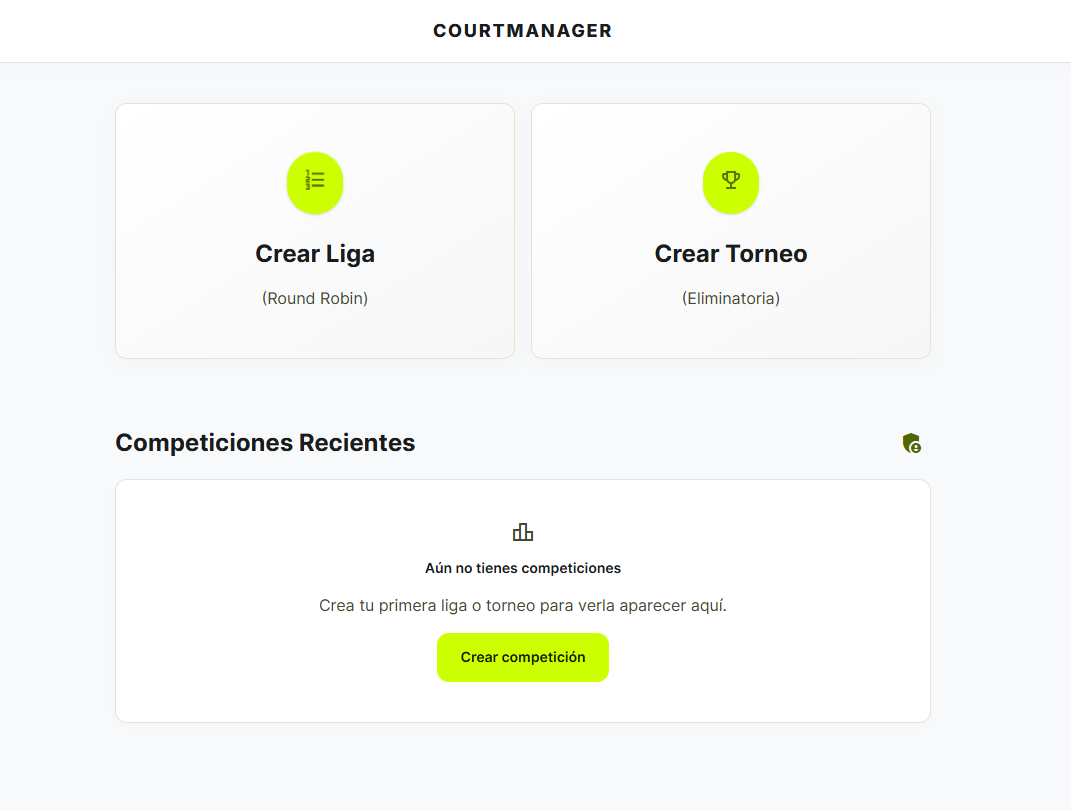
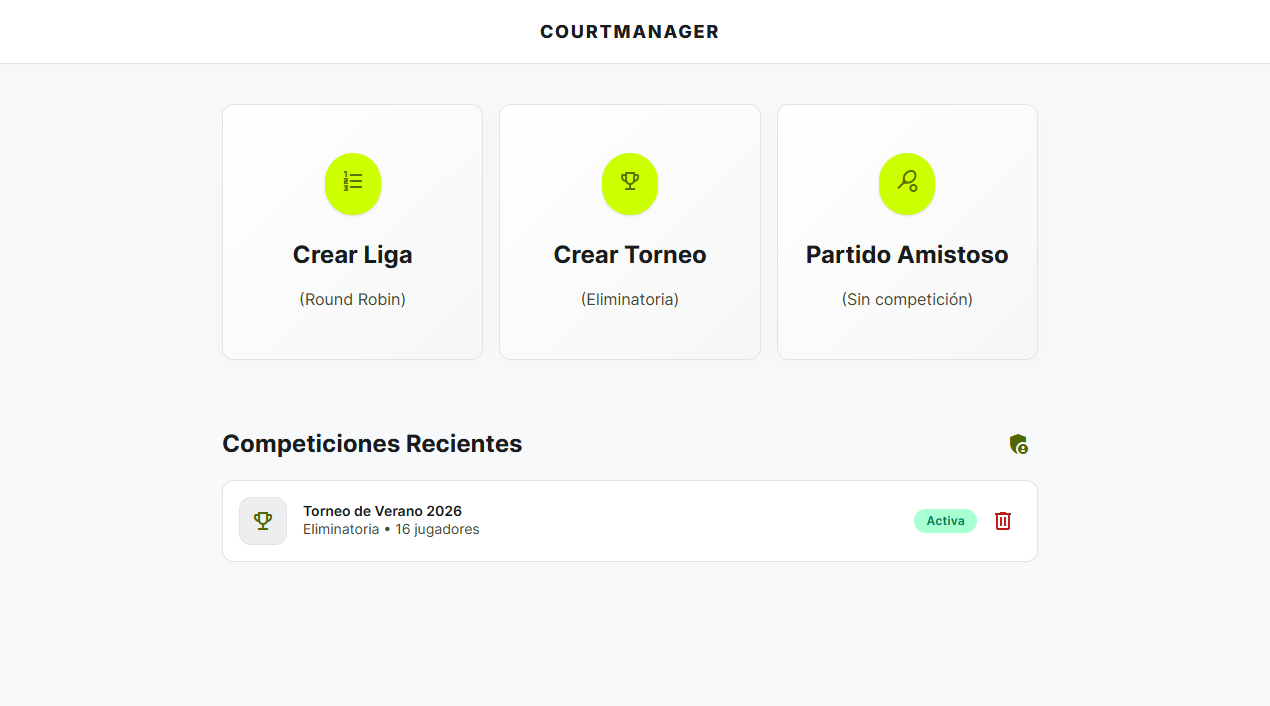
Refactor code structure for improved readability and maintainability

diff --git a/README.md b/README.md
@@ -3,7 +3,8 @@
 > Gestor profesional de torneos y ligas de tenis — del sorteo al saque final.
 
 [![CI](https://github.com/davidsored/TennisTournament/actions/workflows/ci.yml/badge.svg)](https://github.com/davidsored/TennisTournament/actions/workflows/ci.yml)
-[![Tests](https://img.shields.io/badge/tests-138%20passing-brightgreen)](./tests)
+[![E2E](https://github.com/davidsored/TennisTournament/actions/workflows/e2e.yml/badge.svg)](https://github.com/davidsored/TennisTournament/actions/workflows/e2e.yml)
+[![Tests](https://img.shields.io/badge/tests-165%20passing-brightgreen)](./tests)
 [![Python](https://img.shields.io/badge/python-3.12.3-blue)](https://www.python.org/)
 [![Reflex](https://img.shields.io/badge/reflex-0.9.0-6E56CF)](https://reflex.dev/)
 [![Docker](https://img.shields.io/badge/docker-ready-2496ED?logo=docker&logoColor=white)](./Dockerfile)
@@ -14,6 +15,16 @@
 <p align="center">
   <img src="assets/screenshots/home.png" alt="Dashboard de CourtManager" width="800">
 </p>
+
+---
+
+## 🆕 Novedades
+
+> Cambios recientes — detalle completo en [CHANGELOG.md](./CHANGELOG.md).
+
+- 🎾 **Partido Amistoso**: marcador rápido sin liga ni torneo, accesible desde el Home. La configuración viaja en la URL para sobrevivir refrescos.
+- 🐳 **Docker listo para usar**: `Dockerfile` + `docker-compose.yml` con hot-reload para arrancar el stack en un comando.
+- ⚙ **CI en GitHub Actions**: unit + integration en cada push/PR y un workflow E2E nightly con Playwright.
 
 ---
 
@@ -29,6 +40,7 @@ Pensada para clubs, organizadores aficionados y profesores que necesitan una her
 | --- | --- |
 | 🏆 **Ligas (Round Robin)** | Genera el calendario completo ida y vuelta con el algoritmo del círculo. Tabla de clasificación con desempates por sets y orden alfabético. |
 | 🎯 **Torneos eliminatorios** | Cuadros con sembrado aleatorio, distribución de BYEs (nunca se enfrentan entre sí), propagación automática del ganador a la siguiente ronda. |
+| 🎾 **Partido Amistoso** | Marcador rápido sin crear competición: dos nombres, formato (sets / juegos) y a jugar. La configuración viaja en la URL para sobrevivir refrescos. |
 | ⏱ **Marcador en vivo** | Máquina de estados completa: 0 → 15 → 30 → 40, deuce, ventaja, tie-break (configurable), partidos al mejor de N sets / M juegos. |
 | 💾 **Persistencia robusta** | Postgres (Supabase) en producción, SQLite en local. Migraciones gestionadas con Alembic. |
 | 🌗 **Modo administrador** | Acciones destructivas (borrado de competiciones) protegidas por clave; sesión persistida vía `LocalStorage`. |
@@ -39,6 +51,17 @@ Pensada para clubs, organizadores aficionados y profesores que necesitan una her
   <img src="assets/screenshots/torneo.png" alt="Bracket eliminatorio con conectores y propagación de ganadores" width="48%">
 </p>
 <p align="center"><em>Dashboard de liga (Round Robin) y cuadro eliminatorio en acción.</em></p>
+
+<!-- TODO capturas v0.2.0: generar y commitear los archivos siguientes -->
+<!-- - assets/screenshots/casual_form.png        → formulario /casual-match rellenado -->
+<!-- - assets/screenshots/casual_scoreboard.png  → marcador "Partido Amistoso" con dos nombres -->
+<!-- - assets/screenshots/home.png               → re-capturar con el bento de 3 columnas -->
+<p align="center">
+  <img src="assets/screenshots/casual_form.png" alt="Formulario de Partido Amistoso" width="48%">
+  &nbsp;
+  <img src="assets/screenshots/casual_scoreboard.png" alt="Marcador en vivo de un partido amistoso" width="48%">
+</p>
+<p align="center"><em>Partido Amistoso: del formulario al marcador en dos clics.</em></p>
 
 ---
 
@@ -54,17 +77,17 @@ Pensada para clubs, organizadores aficionados y profesores que necesitan una her
 
 ---
 
-## 🧪 Pirámide de Testing — 138 tests automatizados
+## 🧪 Pirámide de Testing — 165 tests automatizados
 
 CourtManager se construye sobre una suite de tests con **3 niveles de cobertura** que protegen el dominio del juego, la persistencia y el flujo de usuario.
 
 ```
        ╱╲
-      ╱E2E╲          3 tests Playwright (flujos UI completos)
+      ╱E2E╲          5 tests Playwright (flujos UI completos)
      ╱──────╲
-    ╱  Integ ╲       28 tests con BD SQLite en memoria
+    ╱  Integ ╲      53 tests con BD SQLite en memoria + states de Reflex
    ╱──────────╲
-  ╱   Unit     ╲    107 tests puros (sin DB, sin red, sin UI)
+  ╱   Unit     ╲   107 tests puros (sin DB, sin red, sin UI)
  ╱──────────────╲
 ```
 
@@ -83,14 +106,16 @@ Cada test arranca con una **BD SQLite en memoria** limpia (fixture `test_db_engi
 
 - **Ligas** (`test_league_integration.py`): creación de `League`, generación del calendario Round Robin, persistencia de `config_games` en cada `LeagueMatch`, lectura de standings desde DB → `MatchView` → `compute_standings`.
 - **Torneos** (`test_tournament_integration.py`): bracket completo en BD, cableado de `next_match_id`, finalización automática de BYEs, **propagación E2E del ganador**: réplica 1:1 del método `LeagueState.record_result` que verifica que el winner aparece en el slot correcto del partido siguiente tras cerrar el partido en BD.
+- **Partido Amistoso** (`test_casual_integration.py`): instancia el `CasualMatchState` y valida steppers (sets impares 1–9, juegos 1–12), `start_match` emitiendo el `rx.redirect` con la URL `/scoreboard?casual=1&p1=…&p2=…&sets=…&games=…`, URL-encoding de espacios/acentos y rechazo (`rx.toast.error`) ante nombres vacíos o duplicados case-insensitive.
 
 ### 🟣 E2E (`tests/e2e/`) — Flujo de usuario con Playwright
 
-Tres flujos críticos validados sobre la aplicación real corriendo en `localhost:3000`. Patrón **Page Object Model** estricto, locators 100 % user-centric (`get_by_role`, `get_by_text`, `get_by_placeholder`):
+Cinco flujos críticos validados sobre la aplicación real corriendo en `localhost:3000`. Patrón **Page Object Model** estricto, locators 100 % user-centric (`get_by_role`, `get_by_text`, `get_by_placeholder`):
 
 - **Flow A — Liga**: crear liga con 3 jugadores y 4 juegos por set, verificar que aparecen todos en standings.
 - **Flow B — Torneo + avance del ganador**: crear cuadro de 4, ganar el primer partido, verificar visualmente que el ganador avanza a la final.
 - **Flow C — Persistencia de Estado**: Validación de que las competiciones creadas aparecen y persisten correctamente en el Dashboard de "Competiciones Recientes" tras la navegación.
+- **Flow D — Partido Amistoso** (`test_casual_match_spec.py`): entrar al bento card, rellenar nombres y formato, comenzar partido y verificar que la URL contiene los query params (`casual=1&sets=…&games=…`) y que el marcador renderiza ambos jugadores; un segundo test valida que sumar puntos no rompe el contexto casual.
 
 Cada test E2E captura **screenshot automático** en caso de fallo (hook `pytest_runtest_makereport`).
 
@@ -190,20 +215,24 @@ TennisTournament/
 │   ├── standings.py
 │   └── fixtures.py
 ├── models/             ← rx.Model + SQLModel (League, Tournament, Match…)
-├── states/             ← rx.State (LeagueState, ScoreboardState…)
-├── pages/              ← Páginas Reflex (home, scoreboard, dashboards…)
+├── states/             ← rx.State (LeagueState, ScoreboardState, CasualMatchState…)
+├── pages/              ← Páginas Reflex (home, scoreboard, casual_match, dashboards…)
 └── components/         ← UI reutilizable (top bar, bento cards, brackets…)
 
 tests/
 ├── unit/               ← 107 tests sin dependencias externas
-├── integration/        ← 28 tests con SQLite en memoria
+├── integration/        ← 53 tests con SQLite en memoria + states de Reflex
+│   ├── test_league_integration.py
+│   ├── test_tournament_integration.py
+│   └── test_casual_integration.py
 └── e2e/
-    ├── pages/          ← Page Objects (POM)
-    └── specs/          ← Tests Playwright
+    ├── pages/          ← Page Objects (POM), incl. CasualPage
+    └── specs/          ← Tests Playwright (incl. test_casual_match_spec.py)
 
-.github/workflows/      ← CI: instala deps y corre unit + integration
+.github/workflows/      ← CI (unit+integration) y E2E nightly con Playwright
 Dockerfile              ← Imagen Python 3.12.3-slim + Node 20 + Reflex
 docker-compose.yml      ← Stack de desarrollo con hot-reload y SQLite
+CHANGELOG.md            ← Historial de cambios (Keep a Changelog + SemVer)
 ```
 
 ---

diff --git a/CHANGELOG.md b/CHANGELOG.md
@@ -1,0 +1,62 @@
+# Changelog
+
+Todos los cambios destacables de este proyecto se documentarán aquí.
+
+El formato sigue [Keep a Changelog](https://keepachangelog.com/es-ES/1.1.0/) y este proyecto se adhiere a [Semantic Versioning](https://semver.org/lang/es/).
+
+## [Unreleased]
+
+—
+
+## [0.2.0] - 2026-06-23
+
+### Added
+
+- **Feature "Partido Amistoso"**: nueva ruta `/casual-match` con formulario rápido (dos jugadores + formato) que arranca un partido sin necesidad de crear liga ni torneo.
+  - `TennisTournament/states/casual_match_state.py` (`CasualMatchState`): inputs, steppers de sets (impares 1–9) y juegos (1–12), validación y emisión de `rx.redirect(...)` a `/scoreboard?casual=1&p1=…&p2=…&sets=…&games=…`.
+  - `TennisTournament/pages/casual_match.py`: UI alineada con el sistema de diseño "Advantage" (top bar, cards, steppers, botón "Comenzar Partido").
+  - Bento card "Partido Amistoso" en el Home y registro de la ruta en `TennisTournament.py`.
+- **Hidratación URL del marcador** (`ScoreboardState.setup_scoreboard`): detecta `?casual=1` y carga los jugadores/config desde los query params; los refrescos del navegador preservan el progreso si los parámetros coinciden con el partido en curso.
+- **Soporte Docker para desarrollo**:
+  - `Dockerfile` (Python 3.12.3-slim + Node.js 20 + dependencias del sistema) con `reflex init` pre-cacheado.
+  - `docker-compose.yml` con hot-reload, volumen nombrado `reflex_web`, `DATABASE_URL` por defecto a SQLite local y `WATCHFILES_FORCE_POLLING` para Docker Desktop en Windows/macOS.
+  - `.dockerignore` para mantener la imagen ligera.
+- **CI en GitHub Actions**:
+  - `.github/workflows/ci.yml`: unit + integration sobre Python 3.12.3 en cada `push` y `pull_request` a `master`.
+  - `.github/workflows/e2e.yml`: Playwright nightly (cron diario + `workflow_dispatch`) que arranca Reflex, espera al frontend, ejecuta los 5 specs E2E y sube como artifact los `debug_*.png` cuando hay fallos.
+- **Tests automatizados de la feature** (26 nuevos, 24 + 2):
+  - `tests/integration/test_casual_integration.py` (24 tests): defaults, setters, steppers, validación y URL exacta generada por `start_match`.
+  - `tests/e2e/specs/test_casual_match_spec.py` (2 tests): recorrido completo Home → formulario → marcador y comprobación de sumar puntos en modo casual.
+  - `tests/e2e/pages/casual_page.py`: Page Object reutilizando el patrón POM del proyecto.
+
+### Changed
+
+- **Home**: el bento grid pasa de `md:grid-cols-2` a `md:grid-cols-3` para acomodar la nueva tarjeta "Partido Amistoso".
+- **README.md**:
+  - Bloque "🆕 Novedades" en cabecera enlazando este CHANGELOG.
+  - Badge **E2E** añadido y contador de tests actualizado (138 → 165).
+  - Tabla "Funcionalidades clave" incluye Partido Amistoso.
+  - Pirámide de testing recontada (107 unit / 53 integration / 5 E2E) y bloques de Integration/E2E mencionan los nuevos tests.
+  - Estructura del proyecto refleja los nuevos archivos.
+- **Tests pre-existentes**: 0 regresiones. Total: **165 passed** (107 + 53 + 5).
+
+### Notas internas
+
+#### Cómo publicar esta versión
+
+Una vez mergeados los cambios en `master`:
+
+```bash
+# Tag + Release con notas auto-extraídas de este CHANGELOG
+gh release create v0.2.0 \
+  --title "v0.2.0 — Partido Amistoso, Docker y CI" \
+  --notes-file <(awk '/^## \[0.2.0\]/,/^## \[/{if(/^## \[/ && !/0.2.0/)exit; print}' CHANGELOG.md)
+```
+
+Tras crear la release:
+
+1. Generar y commitear las capturas pendientes (`assets/screenshots/casual_form.png`, `casual_scoreboard.png`, `home.png` re-capturado con 3 columnas).
+2. En GitHub → "About" del repo: actualizar descripción y añadir Topics relevantes (`reflex`, `tennis`, `tailwindcss`, `python`, `docker`, `playwright`).
+
+[Unreleased]: https://github.com/davidsored/TennisTournament/compare/v0.2.0...HEAD
+[0.2.0]: https://github.com/davidsored/TennisTournament/releases/tag/v0.2.0
